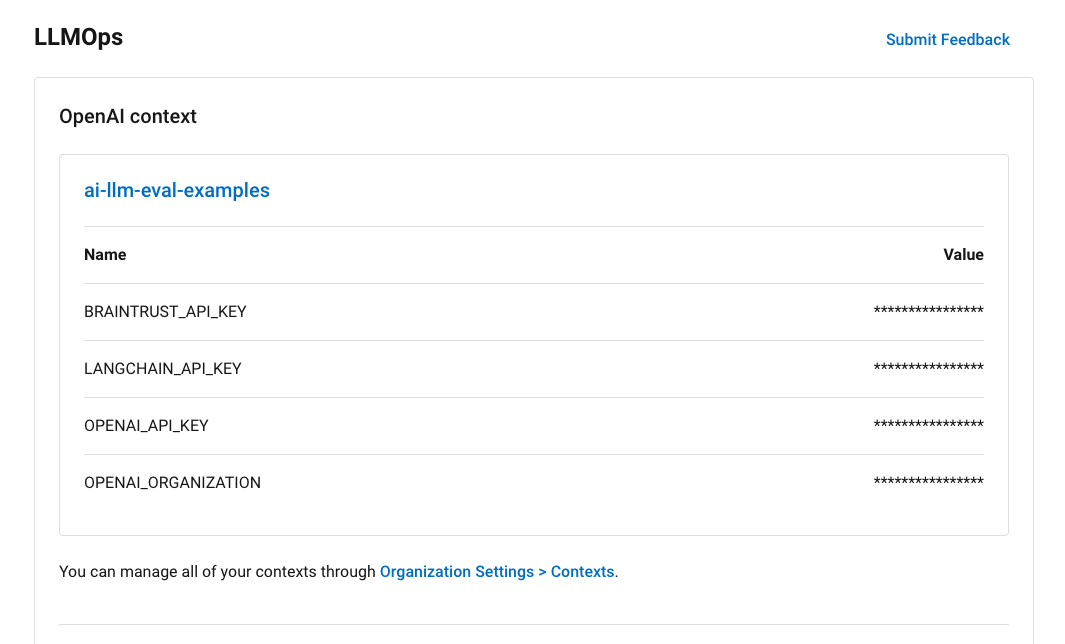
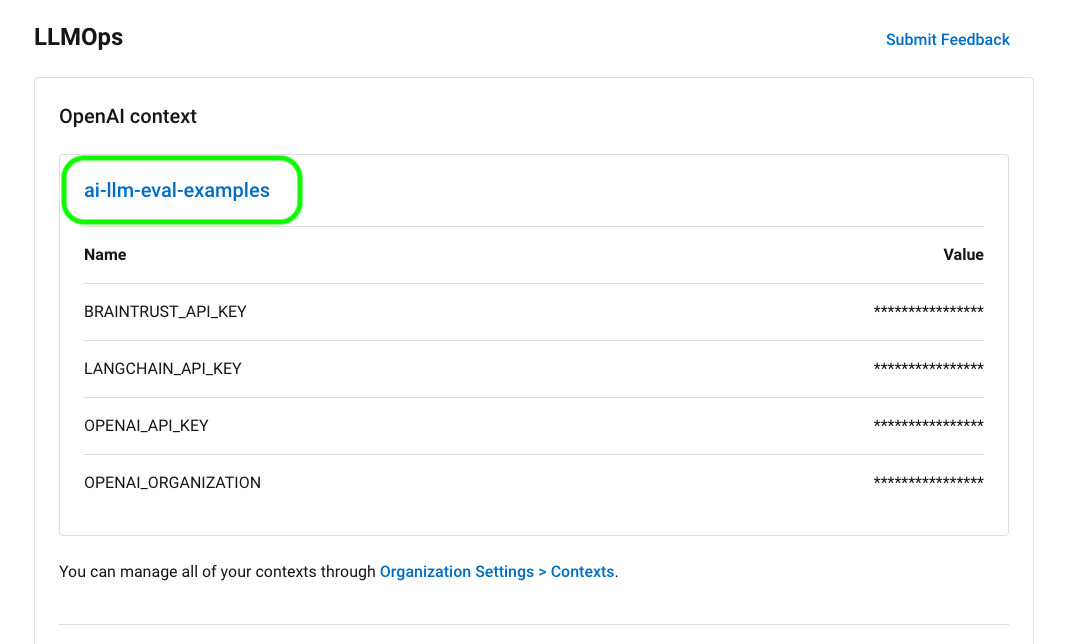
AITEAM-80: update `README` to reduce CircleCI config friction (#10)

Changed region(s): [[0.062, 0.2174, 0.3099, 0.3727], [0.031, 0.2795, 0.062, 0.3106]]

diff --git a/README.md b/README.md
@@ -18,7 +18,19 @@ The API keys will allow you to authenticate and interact with the APIs of your L
 
 See their documentation for more details on capabilities and usage.
 
-### Entering credentials into CircleCI
+## Getting started
+
+Fork this repo to run evaluations on a LLM-based application using the [evals orb](https://circleci.com/developer/orbs/orb/circleci/evals).
+
+This repository includes evaluations that can be run on two evaluation platforms: [Braintrust](https://www.braintrustdata.com/) and [LangSmith](https://smith.langchain.com/). Each example folder contains instructions and sample code to run evaluations.
+
+### Here's the process...
+
+1. Enter your credentials into CircleCI, which get stored as environment variables on a new context.
+2. Update the CircleCI configuration file with your newly-created context.
+3. Select the evaluation platform where you want to run evaluations.
+
+### Step 1. Enter credentials into CircleCI
 
 Entering your OpenAI, Braintrust, and LangSmith credentials into CircleCI is easy.
 
@@ -26,9 +38,109 @@ Just navigate to `Project Settings` > `LLMOps` and fill out the form by Clicking
 
 ![Create Context](images/create-context.png)
 
-This will create a context with environment variables with the credentials you've set up above. Make a note of the generated context name.
+This will create a context with environment variables for the credentials you've set up above.
+
+:warning: _Please take note of the generated context name (e.g. `ai-llm-eval-examples`). This will be used in the next step to update `context` value in the CircleCI configuration file._
 
 ![LLMOps Integration Context](images/LLMOps-Integration-Context.png)
+
+:bulb: You can also optionally [store a `GITHUB_TOKEN`](#to-enable-the-evals-orb-to-post-eval-job-summaries-on-github-pull-requests) as an environment variable on this context, if you'd like your pipelines to post summarized eval job results as comments on GitHub pull requests.
+
+### Step 2. Update CircleCI config with your newly-created context
+
+Once your credentials have been entered, make sure you update the evals `context` parameter in the `.circleci/run_evals_config.yml` file with the name of the context you just created in Step 1.
+
+This will ensure that your credentials get used properly by the evaluation scripts in the following steps.
+
+```yml
+# WORKFLOWS
+workflows:
+  braintrust-evals:
+    when: << pipeline.parameters.run-braintrust-evals >>
+    jobs:
+      - run-braintrust-evals:
+          context:
+            - ai-llm-evals-orb-examples # Replace this with your context name
+  langsmith-evals:
+    when: << pipeline.parameters.run-langsmith-evals >>
+    jobs:
+      - run-langsmith-evals:
+          context:
+            - ai-llm-evals-orb-examples # Replace this with your context name
+```
+
+### Step 3. Select your evaluation platform
+
+#### Braintrust
+
+The Braintrust example imports from HuggingFace an evaluation dataset of news articles, and uses ChatGPT to help classify them into category. The dataset contains both the news article and the expected category for each of them. As an evaluation metric, we use the Levenshtein distance, which tells us how distant the answer provided by ChatGPT is from the expected answer. Each individual test case is scored, and a summary score for the whole dataset is also available.
+
+<img style="text-align:center" width="300" alt="CircleCI-llmops" src="https://github.com/CircleCI-Public/llm-eval-examples/assets/19594309/93595b21-abe2-4c74-8a15-1ed08e19dd0d">
+
+#### LangSmith
+
+In the LangSmith example, we instantiate the dataset ourselves. Ahead of triggering your evaluation via CircleCI, run the following commands:
+
+```
+cd ./experiments/ai-langsmith
+pip install -r ./requirements.txt
+python dataset.py
+```
+
+The dataset contains a list of topics which we want ChatGPT to write poems about. It also contains, for each topic, a letter or word which should not be included in the poem. In our evaluation, we use the LangSmith `ConstraintEvaluator` to verify whether our LLM has accurately avoided using the letter or word. By accessing the LangSmith platform we are able to access all scores by test case.
+
+#### The Results
+
+Whichever evaluation platform you choose, as evals are run through the [evals orb](https://circleci.com/developer/orbs/orb/circleci/evals), CircleCI stores the summary of eval results as a job [artifact](https://circleci.com/docs/artifacts/).
+
+<img style="text-align:center" width="370" alt="Screenshot 2024-04-30 at 10 19 53" src="https://github.com/CircleCI-Public/llm-eval-examples/assets/19594309/9df64653-d1b7-41c5-8830-f8d8d497bdca">
+
+If a [`GITHUB_TOKEN`](#to-enable-the-evals-orb-to-post-eval-job-summaries-on-github-pull-requests) has been set up, the orb will also post summarized eval results as a PR comment:
+
+<img style="text-align:center" width="700" alt="Screenshot 2024-04-30 at 10 21 48" src="https://github.com/CircleCI-Public/llm-eval-examples/assets/19594309/73c628b0-de35-41f2-8f06-7e486691cea6">
+
+### A few notes about CircleCI config...
+
+The `.circleci/run_evals_config.yml` file uses the [evals orb](https://circleci.com/developer/orbs/orb/circleci/evals) to define jobs that run the evaluation code in each example folder. The orb handles setting up the evaluation environment, executing the evaluations, and collecting the results.
+
+For example, the Braintrust job runs the Python script in `braintrust/eval_tutorial.py` by passing it as the `cmd` parameter. It saves the evaluation results to the location specified with `evals_result_location`.
+
+Similarly, the LangSmith job runs the Python script in `langsmith/eval.py`.
+
+To change where the results of the evaluation are being saved, go to the `evals/eval` step, and add the parameter `evals_result_location`:
+
+_Note: the [evals orb](https://circleci.com/developer/orbs/orb/circleci/evals) will make the directory if it does not exist._
+
+```yaml
+- evals/eval:
+    circle_pipeline_id: << pipeline.id >>
+    eval_platform: ...
+    evals_result_location: "./my-results-here"
+    cmd: ...
+```
+
+### To enable the [evals orb](https://circleci.com/developer/orbs/orb/circleci/evals) to post eval job summaries on GitHub pull requests:
+
+- Generate a [GitHub Personal Access Token](https://docs.github.com/en/authentication/keeping-your-account-and-data-secure/managing-your-personal-access-tokens) with `repo` scope.
+- Add this token as the environment variable [`GITHUB_TOKEN`](https://docs.github.com/en/authentication/keeping-your-account-and-data-secure/managing-your-personal-access-tokens) in CircleCI project settings. Alternatively, you could include this secret in the context that was created when [you entered your credentials](#step-1-enter-credentials-into-circleci) as part of LLMOps Integration.
+
+### A note about dynamic configuration
+
+The examples included in this repository use [dynamic configuration](https://circleci.com/docs/dynamic-config/) to selectively run only the evaluations defined in the folder that changed. So, for changes committed to the folder `braintrust`, only your Braintrust evaluations will be run; for changes committed to the folder `langsmith`, only your LangSmith evaluations will be run.
+
+```shell
+.
+├── README.md
+├── braintrust
+│   ├── eval_tutorial.py
+│   ├── README.md
+│   └── requirements.txt
+└── langsmith
+    ├── dataset.py
+    ├── eval.py
+    ├── README.md
+    └── requirements.txt
+```
 
 ## The CircleCI Evals Orb
 
@@ -38,8 +150,8 @@ Given the volatile nature of evaluations, evaluations orchestrated by the [evals
 
 Instead, a summary of the evaluation results can _optionally_ be presented:
 
-- as an artifact within the CircleCI User Interface
-- as a comment on the corresponding GitHub pull request (requires a [GitHub Personal Access Token](https://docs.github.com/en/authentication/keeping-your-account-and-data-secure/managing-your-personal-access-tokens))
+- as an [artifact](https://circleci.com/docs/artifacts/) within the CircleCI pipeline job
+- as a comment on the corresponding GitHub pull request (requires a [GitHub Personal Access Token](#to-enable-the-evals-orb-to-post-eval-job-summaries-on-github-pull-requests))
 
 ### Orb Parameters
 
@@ -68,80 +180,6 @@ _Some of the parameters are optional based on the eval platform being used._
 
 - **`langsmith_experiment_name`** _(optional)_: LangSmith experiment name
   - If no value is provided, an experiment name will be auto-generated based on an MD5 hash of `<CIRCLE_PIPELINE_ID>_<CIRCLE_WORKFLOW_ID>`.
-
-## Getting started
-
-Fork this repo to run evaluations on a LLM-based application using the [evals orb](https://circleci.com/developer/orbs/orb/circleci/evals).
-This repository includes evaluations that can be run on two evaluation platforms: [Braintrust](https://www.braintrustdata.com/) and [LangSmith](https://smith.langchain.com/). Each example folder contains instructions and sample code to run evaluations.
-
-### Braintrust Example
-
-The Braintrust example imports from HuggingFace an evaluation dataset of news articles, and uses ChatGPT to help classify them into category. The dataset contains both the news article and the expected category for each of them. As an evaluation metric, we use the Levenshtein distance, which tells us how distant the answer provided by ChatGPT is from the expected answer. Each individual test case is scored, and a summary score for the whole dataset is also available.
-
-<img style="text-align:center" width="300" alt="CircleCI-llmops" src="https://github.com/CircleCI-Public/llm-eval-examples/assets/19594309/93595b21-abe2-4c74-8a15-1ed08e19dd0d">
-
-### LangSmith Example
-
-In the LangSmith example, we instantiate the dataset ourselves. Ahead of triggering your evaluation via CircleCI, run the following commands:
-
-```
-cd ./experiments/ai-langsmith
-pip install -r ./requirements.txt
-python dataset.py
-```
-
-The dataset contains a list of topics which we want ChatGPT to write poems about. It also contains, for each topic, a letter or word which should not be included in the poem. In our evaluation, we use the LangSmith `ConstraintEvaluator` to verify whether our LLM has accurately avoided using the letter or word. By accessing the LangSmith platform we are able to access all scores by test case.
-
-### The Results
-
-In both cases, as evaluations are run through the [evals orb](https://circleci.com/developer/orbs/orb/circleci/evals), CircleCI stores the summary of eval results as a job artifact.
-
-<img style="text-align:center" width="370" alt="Screenshot 2024-04-30 at 10 19 53" src="https://github.com/CircleCI-Public/llm-eval-examples/assets/19594309/9df64653-d1b7-41c5-8830-f8d8d497bdca">
-
-If a [`GITHUB_TOKEN`](https://docs.github.com/en/authentication/keeping-your-account-and-data-secure/managing-your-personal-access-tokens) has been set up, the orb will also post summarized eval results as a PR comment:
-
-<img style="text-align:center" width="700" alt="Screenshot 2024-04-30 at 10 21 48" src="https://github.com/CircleCI-Public/llm-eval-examples/assets/19594309/73c628b0-de35-41f2-8f06-7e486691cea6">
-
-### Config
-
-The `.circleci/run_evals_config.yml` file uses the [evals orb](https://circleci.com/developer/orbs/orb/circleci/evals) to define jobs that run the evaluation code in each example folder. The orb handles setting up the evaluation environment, executing the evaluations, and collecting the results.
-
-For example, the Braintrust job runs the Python script in `braintrust/eval_tutorial.py` by passing it as the `cmd` parameter. It saves the evaluation results to the location specified with `evals_result_location`.
-
-Similarly, the LangSmith job runs the Python script in `langsmith/eval.py`.
-
-To change where the results of the evaluation are being saved, go to the `evals/eval` step, and add the parameter `evals_result_location`:
-
-_Note: the [evals orb](https://circleci.com/developer/orbs/orb/circleci/evals) will make the directory if it does not exist._
-
-```yaml
-- evals/eval:
-    circle_pipeline_id: << pipeline.id >>
-    eval_platform: ...
-    evals_result_location: "./my-results-here"
-    cmd: ...
-```
-
-To enable the orb to post a summary of the evaluation results as a PR comment:
-
-- Generate a [GitHub Personal Access Token](https://docs.github.com/en/authentication/keeping-your-account-and-data-secure/managing-your-personal-access-tokens) with `repo` scope.
-- Add this token as the environment variable [`GITHUB_TOKEN`](https://docs.github.com/en/authentication/keeping-your-account-and-data-secure/managing-your-personal-access-tokens) in CircleCI project settings. Alternatively, you could include this secret in the context that was created when you set up the LLMOps integration.
-
-The examples included in this repository use [dynamic configuration](https://circleci.com/docs/dynamic-config/) to selectively run only the evaluations defined in the folder that changed. So, for changes committed to the folder `braintrust`, only your Braintrust evaluations will be run; for changes committed to the folder `langsmith`, only your LangSmith evaluations will be run.
-
-```shell
-.
-├── README.md
-├── braintrust
-│   ├── eval_tutorial.py
-│   ├── README.md
-│   └── requirements.txt
-└── langsmith
-    ├── dataset.py
-    ├── eval.py
-    ├── README.md
-    └── requirements.txt
-```
 
 ## Happy Evaluating!
 
